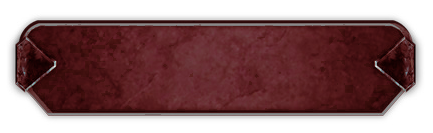
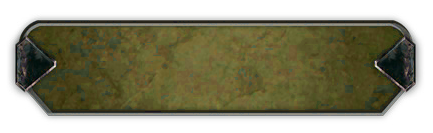
modifying scene background

diff --git a/scss/app/ui.scss b/scss/app/ui.scss
@@ -325,7 +325,7 @@ div#sidebar.collapsed {
         }
 
         .scene.gm {
-            background:url(../images/scene.png);
+            background:url(../images/scene-gm.png);
             background-size: 100% 100%;
             border: none;
             box-shadow:none
@@ -339,7 +339,7 @@ div#sidebar.collapsed {
         }
 
         .scene.view {
-            background:url(../images/scene-player-access.png);
+            background:url(../images/scene-view.png);
             background-size: 100% 100%;
             border: none;
             box-shadow:none

diff --git a/css/app/ui.css b/css/app/ui.css
@@ -306,7 +306,7 @@ div#sidebar.collapsed {
 }
 
 #navigation #scene-list .scene.gm {
-  background: url(../images/scene.png);
+  background: url(../images/scene-gm.png);
   background-size: 100% 100%;
   border: none;
   box-shadow: none;
@@ -320,7 +320,7 @@ div#sidebar.collapsed {
 }
 
 #navigation #scene-list .scene.view {
-  background: url(../images/scene-player-access.png);
+  background: url(../images/scene-view.png);
   background-size: 100% 100%;
   border: none;
   box-shadow: none;

diff --git a/css/torgeternity.css b/css/torgeternity.css
@@ -556,7 +556,7 @@ div#sidebar.collapsed {
 }
 
 #navigation #scene-list .scene.gm {
-  background: url(../images/scene.png);
+  background: url(../images/scene-gm.png);
   background-size: 100% 100%;
   border: none;
   box-shadow: none;
@@ -570,7 +570,7 @@ div#sidebar.collapsed {
 }
 
 #navigation #scene-list .scene.view {
-  background: url(../images/scene-player-access.png);
+  background: url(../images/scene-view.png);
   background-size: 100% 100%;
   border: none;
   box-shadow: none;
